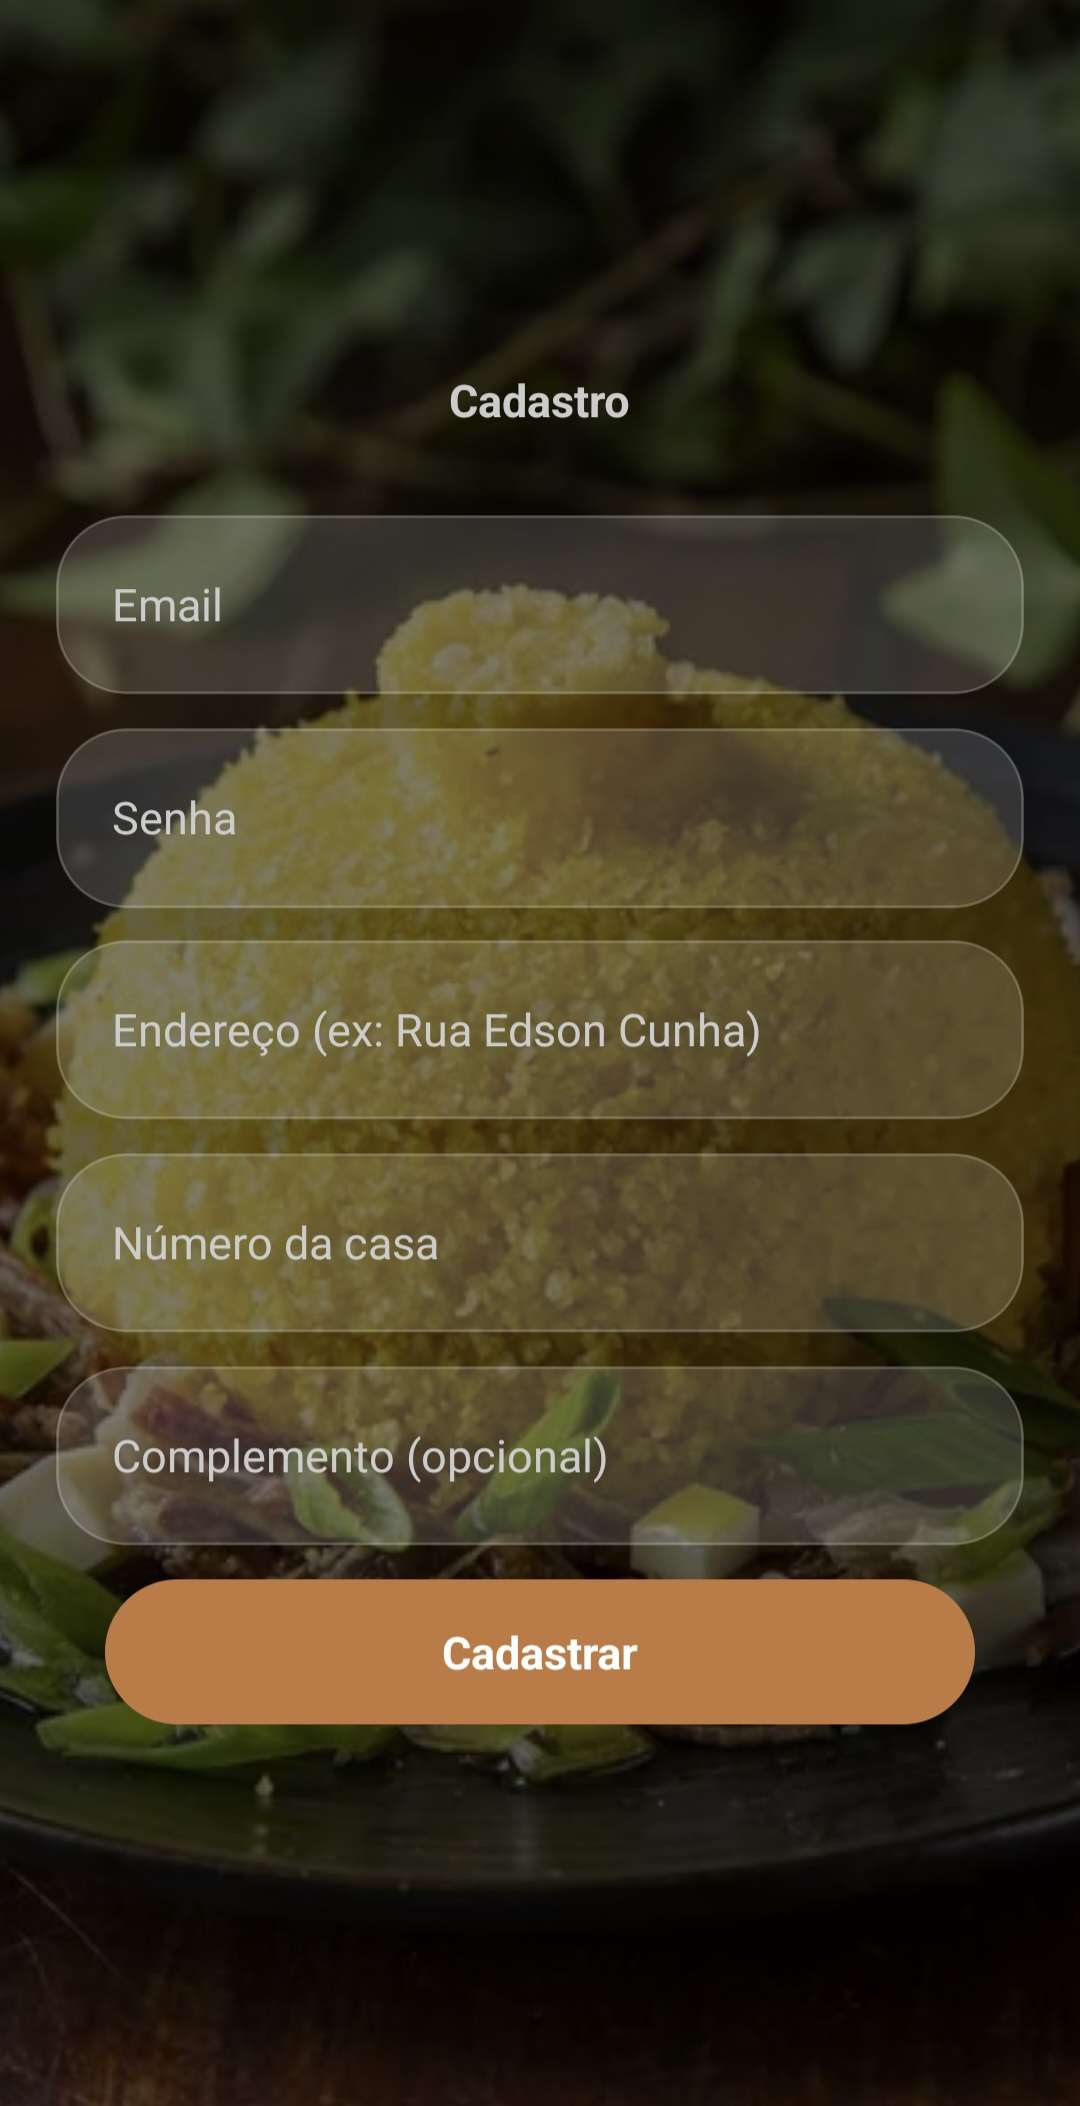
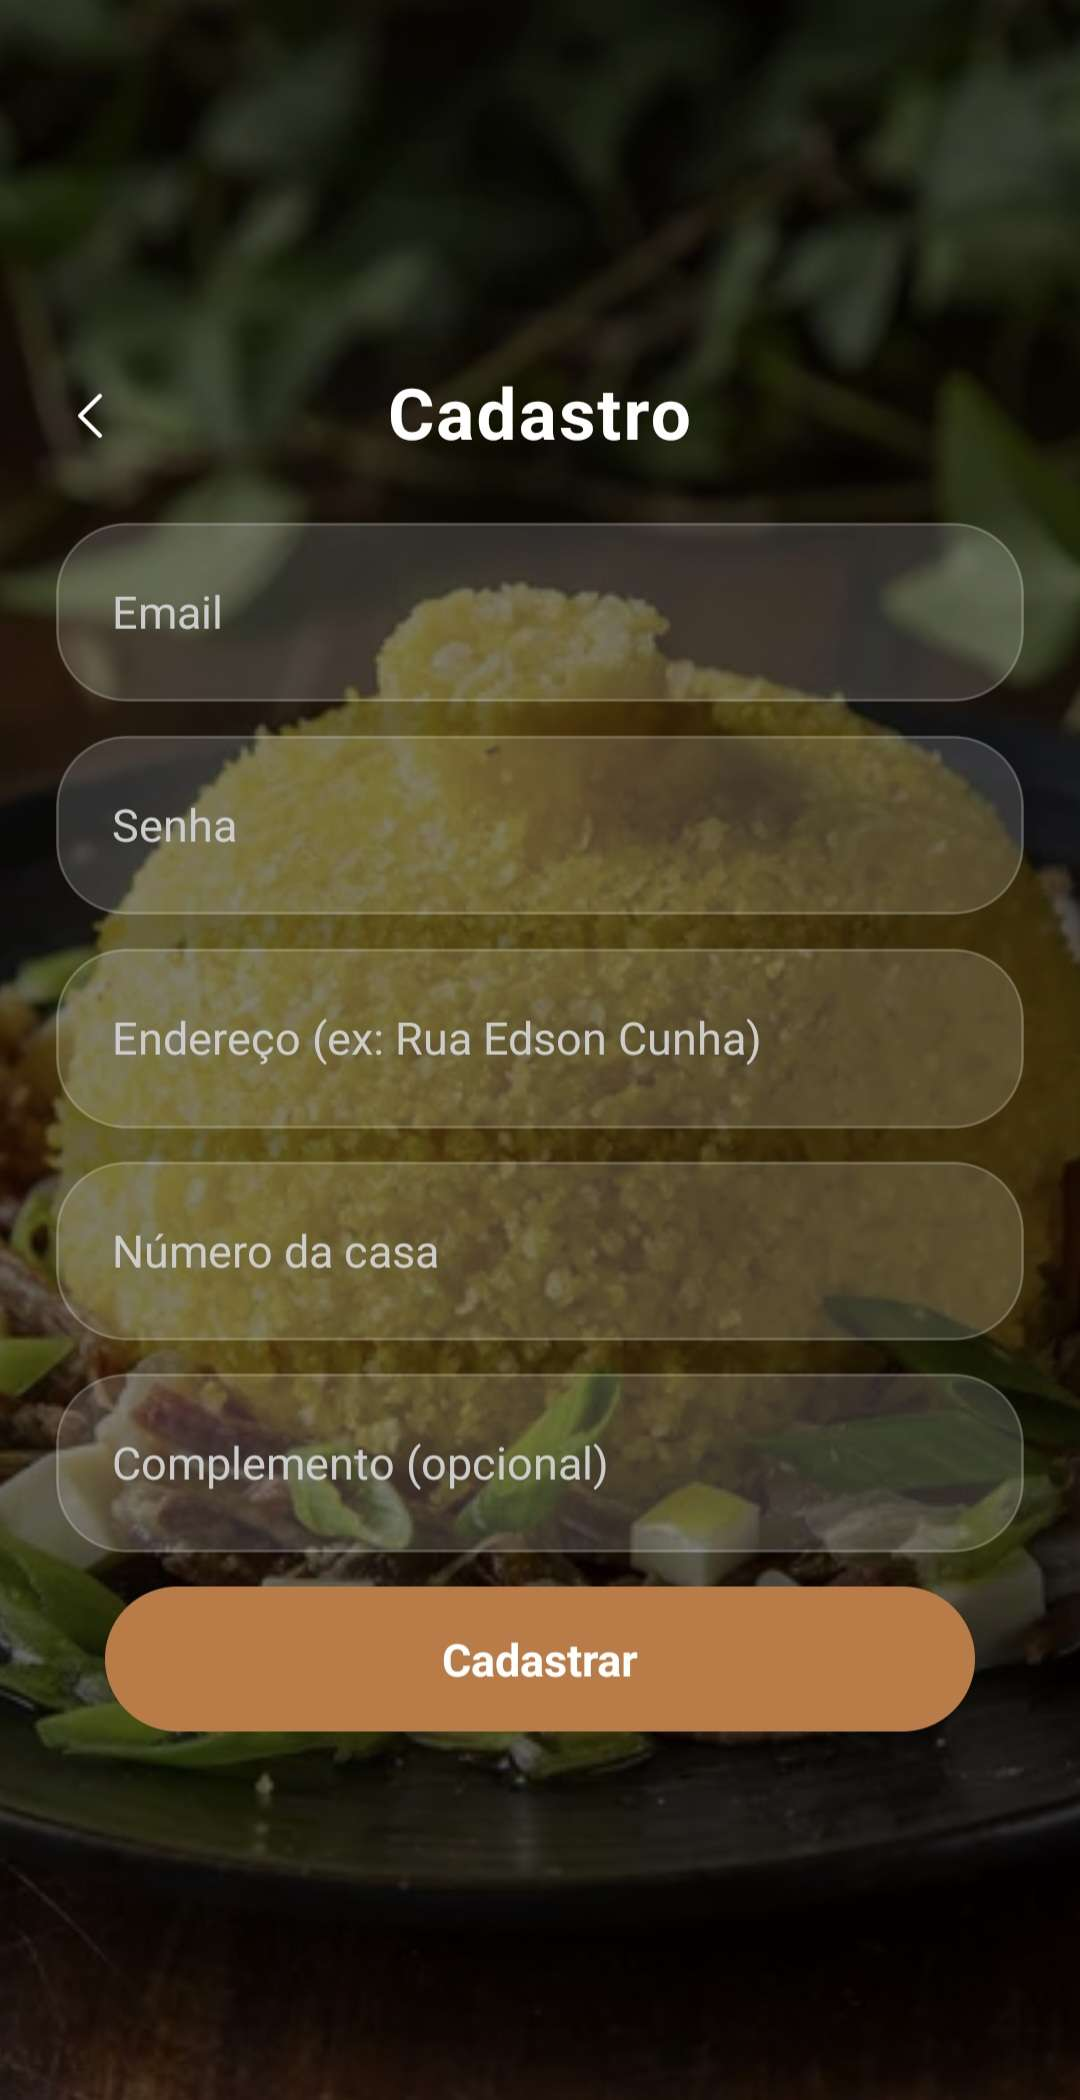
Adição de botão q estava faltando no cadastro e icone no app
foi colocado um botão de voltar tela no singUp, tambem foi colocado um icone para o app, e foi apagado algumas imagens que não estava sendo utilizadas para menor armazenamento

diff --git a/src/styles/singUpStyle.js b/src/styles/singUpStyle.js
@@ -23,16 +23,23 @@ export const styles = StyleSheet.create({
     width: "100%",
   },
 
-  title: {
-    fontSize: 30,
-    color: colors.textWhite,
-    fontWeight: "bold",
-    textAlign: "center",
-    width: "100%",
-    lineHeight: 40,
-    letterSpacing: 0.8,
-    marginBottom: 18,
+  header: {
+  width: "100%",
+  flexDirection: "row",
+  alignItems: "center",
+  justifyContent: "center",
+  position: "relative",
+  marginBottom: 18,
   },
+
+  title: {
+  fontSize: 25,
+  color: colors.textWhite,
+  fontWeight: "bold",
+  textAlign: "center",
+  lineHeight: 40,
+  letterSpacing: 0.8,
+},
 
   subtitle: {
     color: "#ccc",
@@ -40,6 +47,19 @@ export const styles = StyleSheet.create({
     marginBottom: 30,
     textAlign: "center",
     fontWeight: "bold",
+  },
+
+  backContainer: {
+  position: "absolute",
+  left: 0,
+  justifyContent: "center",
+  alignItems: "center",
+  },
+
+  backButton: {
+    width: 24,
+    height: 24,
+    tintColor: colors.textWhite,
   },
 
   buttonContainer: {

diff --git a/src/app/signUp.jsx b/src/app/signUp.jsx
@@ -2,12 +2,13 @@ import { useRouter } from "expo-router";
 import { createUserWithEmailAndPassword } from "firebase/auth";
 import { doc, setDoc } from "firebase/firestore";
 import { useState } from "react";
-import { Alert, ImageBackground, Text, TextInput, TouchableOpacity, View } from "react-native";
+import { Alert, ImageBackground, Text, TextInput, TouchableOpacity, View, Image} from "react-native";
 import { KeyboardAwareScrollView } from 'react-native-keyboard-aware-scroll-view';
 import { IMG } from "../components/assets";
 import Screen from "../components/screen";
 import { auth, db } from "../config/firebase";
 import { styles } from "../styles/singUpStyle";
+import { ICONS } from "../components/assets";
 
 export default function SignUp() {
   const router = useRouter();
@@ -77,8 +78,21 @@ export default function SignUp() {
         <ImageBackground source={IMG.cuscuzCarne} style={styles.background} resizeMode="cover">
           <View style={styles.overlay}>
             <View style={styles.content}>
+            
+            <View style={styles.header}>
+              <TouchableOpacity
+                onPress={() => router.push("/")}
+                style={styles.backContainer}
+              >
+              <Image 
+                source={ICONS.left}
+                style={styles.backButton}
+              />
+              </TouchableOpacity>
+            
 
-              <Text style={styles.subtitle}>Cadastro</Text>
+              <Text style={styles.title}>Cadastro</Text>
+            </View>
 
               <View style={styles.searchLoginBox}>
                 <TextInput placeholder="Email" placeholderTextColor="#ccc"

diff --git a/src/components/assets.jsx b/src/components/assets.jsx
@@ -6,18 +6,10 @@ export const ICONS = {
     bag:            require("../assets/icons/bag.png"),
     bean:           require("../assets/icons/bean.png"),
     calling:        require("../assets/icons/calling.png"),
-    discount:       require("../assets/icons/discount.png"),
-    filter:         require("../assets/icons/filter.png"),
-    gps:            require("../assets/icons/gps.png"),
-    favorites:      require("../assets/icons/heart.png"),
     home:           require("../assets/icons/home.png"),
-    heart:          require("../assets/icons/heart.png"),
     milk:           require("../assets/icons/milk.png"),
-    minusCircle:    require("../assets/icons/minus_Circle.png"),
-    moreCircle:     require("../assets/icons/more_Circle.png"),
     motorBike:      require("../assets/icons/motor_Bike.png"),
     notification:   require("../assets/icons/notification.png"),
-    plusCircle:     require("../assets/icons/plus_Circle.png"),
     plus:           require("../assets/icons/plus.png"),
     search:         require("../assets/icons/search.png"),
     star:           require("../assets/icons/star.png"),

diff --git a/src/app/(protected)/(tabs)/orders.jsx b/src/app/(protected)/(tabs)/orders.jsx
@@ -1,5 +1,6 @@
 import { useRouter } from "expo-router";
-import { ScrollView, Text, TouchableOpacity, View } from "react-native";
+import { Image, ScrollView, Text, TouchableOpacity, View } from "react-native";
+import { ICONS } from "../../../components/assets";
 import Screen from "../../../components/screen";
 import { useOrders } from "../../../context/ordersContext";
 import { styles } from "../../../styles/orderStyle";
@@ -77,7 +78,9 @@ export default function Orders() {
                   </Text>
                 </View>
 
-                <Text style={styles.arrow}>›</Text>
+                <Image style={styles.arrow}
+                source={ICONS.right}
+                />
               </View>
 
               <View style={styles.cardBottom}>

diff --git a/src/styles/orderStyle.js b/src/styles/orderStyle.js
@@ -92,8 +92,8 @@ export const styles = StyleSheet.create({
     color: colors.textDark,
   },
   arrow: {
-    fontSize: 24,
-    color: colors.primaryLight,
+    height: 24,
+    width: 24,
   },
 
   cardBottom: {